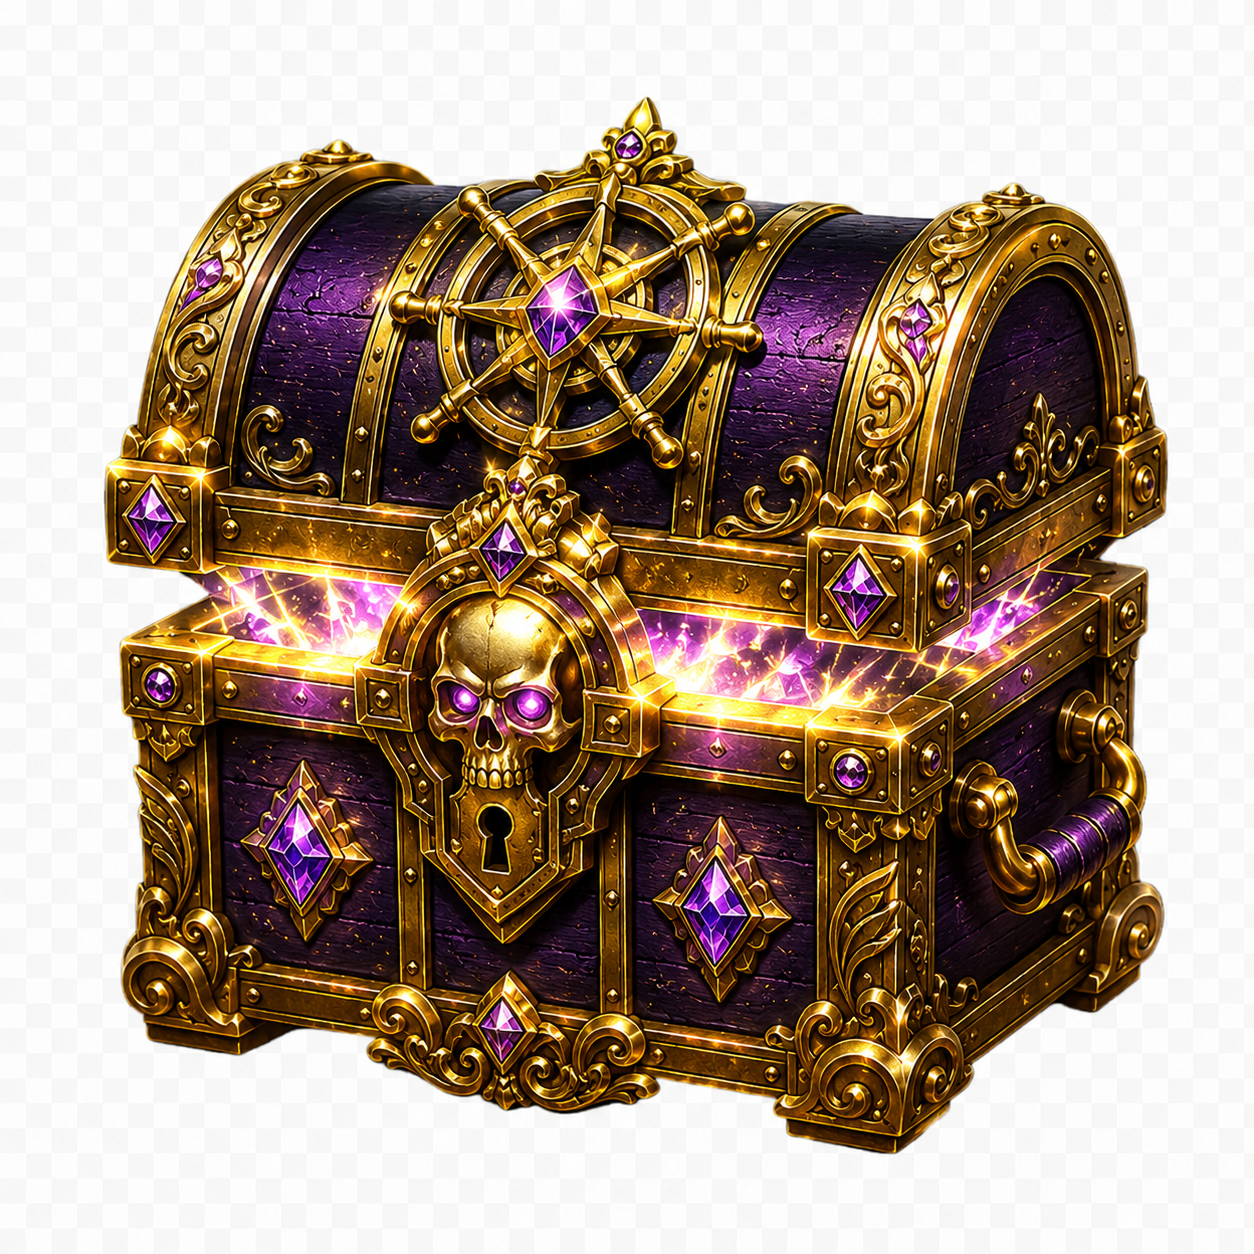
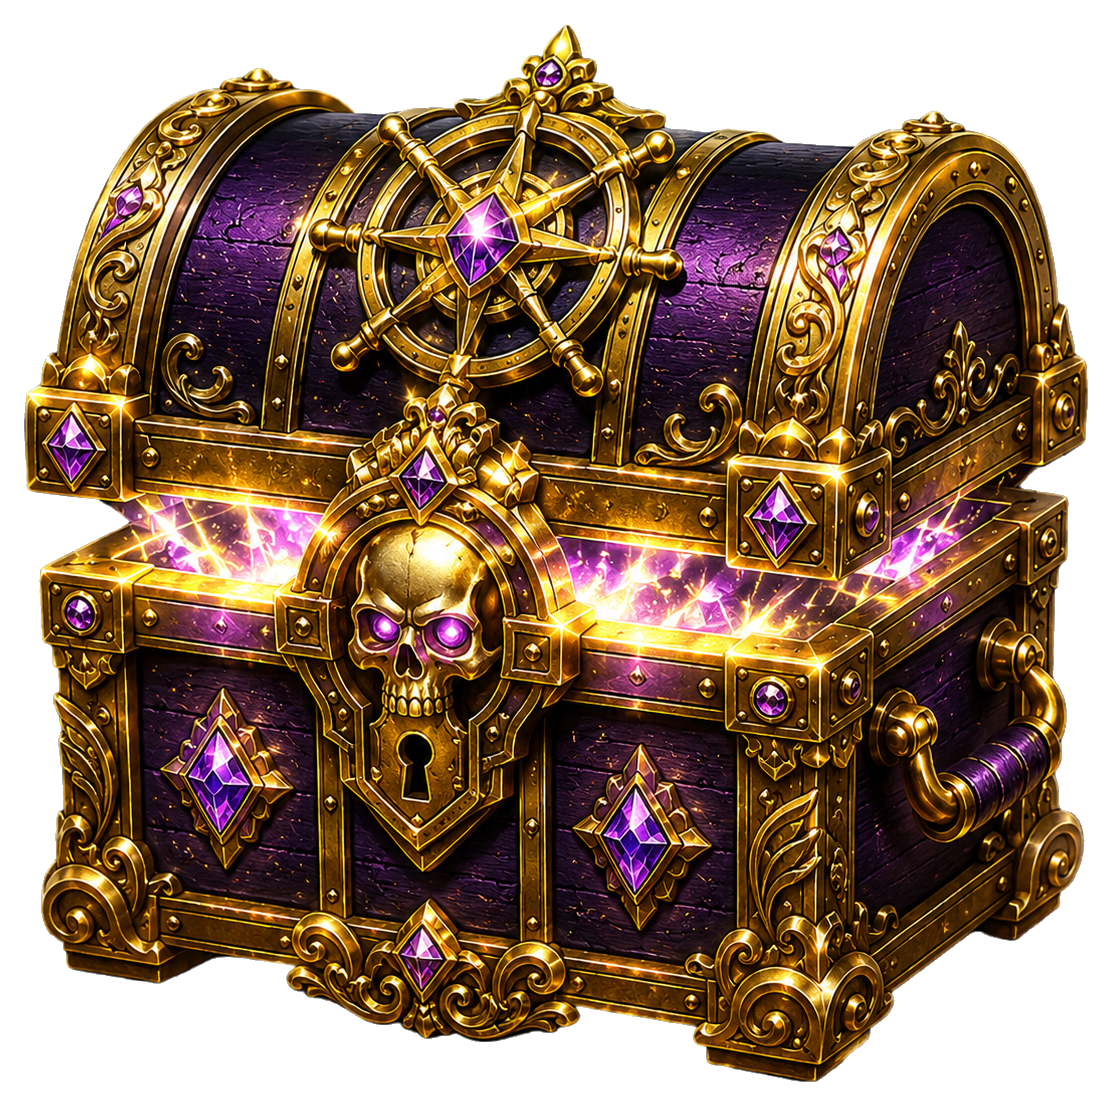
Polish menu chests and remove real ad dependency

diff --git a/src/scenes/MenuScene.js b/src/scenes/MenuScene.js
@@ -5,7 +5,6 @@ import { CareerService } from '../services/CareerService.js';
 import { LocalizationService, t } from '../services/LocalizationService.js';
 import { SoundService } from '../services/SoundService.js';
 import { StorageService } from '../services/StorageService.js';
-import { YandexService } from '../services/YandexService.js';
 import { Button } from '../ui/Button.js';
 import { drawCareerEmblem, drawNavalPanel } from '../ui/NavalPanel.js';
 import { SettingsModal } from '../ui/SettingsModal.js';
@@ -211,7 +210,11 @@ export class MenuScene extends Phaser.Scene {
       this.chestHitZone.disableInteractive();
       this.chestContainer.setAlpha(0.62);
     }
-    YandexService.showRewardedAd(() => this.grantDailyReward());
+    this.mockRewardedAd(() => this.grantDailyReward());
+  }
+
+  mockRewardedAd(callback) {
+    callback?.();
   }
 
   grantDailyReward() {
@@ -242,16 +245,59 @@ export class MenuScene extends Phaser.Scene {
   }
 
   addRareChest() {
-    this.rareChestButton = new Button(this, 224, GAME_HEIGHT - 72, 300, 50, t('rare_chest_open'), () => this.claimRareChest(), {
-      variant: 'secondary',
-      fontSize: 16,
-      small: true
-    });
+    const x = 236;
+    const y = GAME_HEIGHT - 96;
+    if (this.textures.exists(AssetKeys.Images.RareChestReward)) {
+      this.rareChestContainer = this.add.container(x, y);
+      const glow = this.add.graphics();
+      glow.fillStyle(0x020812, 0.58);
+      glow.fillRoundedRect(-104, -72, 208, 138, 22);
+      glow.fillStyle(0xb156ff, 0.14);
+      glow.fillEllipse(0, -4, 196, 154);
+      glow.lineStyle(2, 0xd7a748, 0.36);
+      glow.strokeRoundedRect(-104, -72, 208, 138, 22);
+      this.rareChestImage = this.add.image(0, -16, AssetKeys.Images.RareChestReward)
+        .setDisplaySize(138, 137);
+      this.rareChestLabel = this.add.text(0, 52, t('rare_chest'), {
+        fontFamily: 'Georgia, "Times New Roman", serif',
+        fontSize: '17px',
+        color: '#fff0bf',
+        stroke: '#020812',
+        strokeThickness: 3
+      }).setOrigin(0.5);
+      this.rareChestHitZone = this.add.zone(0, -6, 208, 150)
+        .setInteractive({ useHandCursor: true });
+      this.rareChestContainer.add([glow, this.rareChestImage, this.rareChestLabel, this.rareChestHitZone]);
+      this.rareChestHitZone.on('pointerover', () => {
+        if (StorageService.canClaimRareChest()) {
+          this.tweens.add({ targets: this.rareChestContainer, scale: 1.04, duration: 120, ease: 'Sine.easeOut' });
+        }
+      });
+      this.rareChestHitZone.on('pointerout', () => {
+        this.tweens.add({ targets: this.rareChestContainer, scale: 1, duration: 120, ease: 'Sine.easeOut' });
+      });
+      this.rareChestHitZone.on('pointerup', () => this.claimRareChest());
+    } else {
+      this.rareChestButton = new Button(this, 224, GAME_HEIGHT - 72, 300, 50, t('rare_chest_open'), () => this.claimRareChest(), {
+        variant: 'secondary',
+        fontSize: 16,
+        small: true
+      });
+    }
     this.refreshRareChest();
   }
 
   refreshRareChest() {
-    this.rareChestButton?.setEnabled(StorageService.canClaimRareChest());
+    const canClaim = StorageService.canClaimRareChest();
+    if (this.rareChestButton) {
+      this.rareChestButton.setEnabled(canClaim);
+      return;
+    }
+    this.rareChestContainer?.setAlpha(canClaim ? 1 : 0.58);
+    this.rareChestImage?.clearTint();
+    if (!canClaim) {
+      this.rareChestImage?.setTint(0x7f7787);
+    }
   }
 
   claimRareChest() {

diff --git a/src/scenes/PreloadScene.js b/src/scenes/PreloadScene.js
@@ -13,7 +13,7 @@ export class PreloadScene extends Phaser.Scene {
     this.load.image(AssetKeys.Images.MenuBattleBg, '/assets/backgrounds/menu_battle_bg.png');
     this.load.image(AssetKeys.Images.BattleOceanBg, '/assets/backgrounds/battle_ocean_bg.png');
     this.load.image(AssetKeys.Images.DailyChestReward, '/assets/ui/daily_chest_reward.png');
-    this.load.image(AssetKeys.Images.RareChestReward, '/assets/ui/rare_chest_reward.png');
+    this.load.image(AssetKeys.Images.RareChestReward, '/assets/ui/premium_chest_reward.png');
 
     this.load.audio('music_menu', '/assets/audio/music_menu.mp3');
     this.load.audio('music_battle', '/assets/audio/music_battle.mp3');
